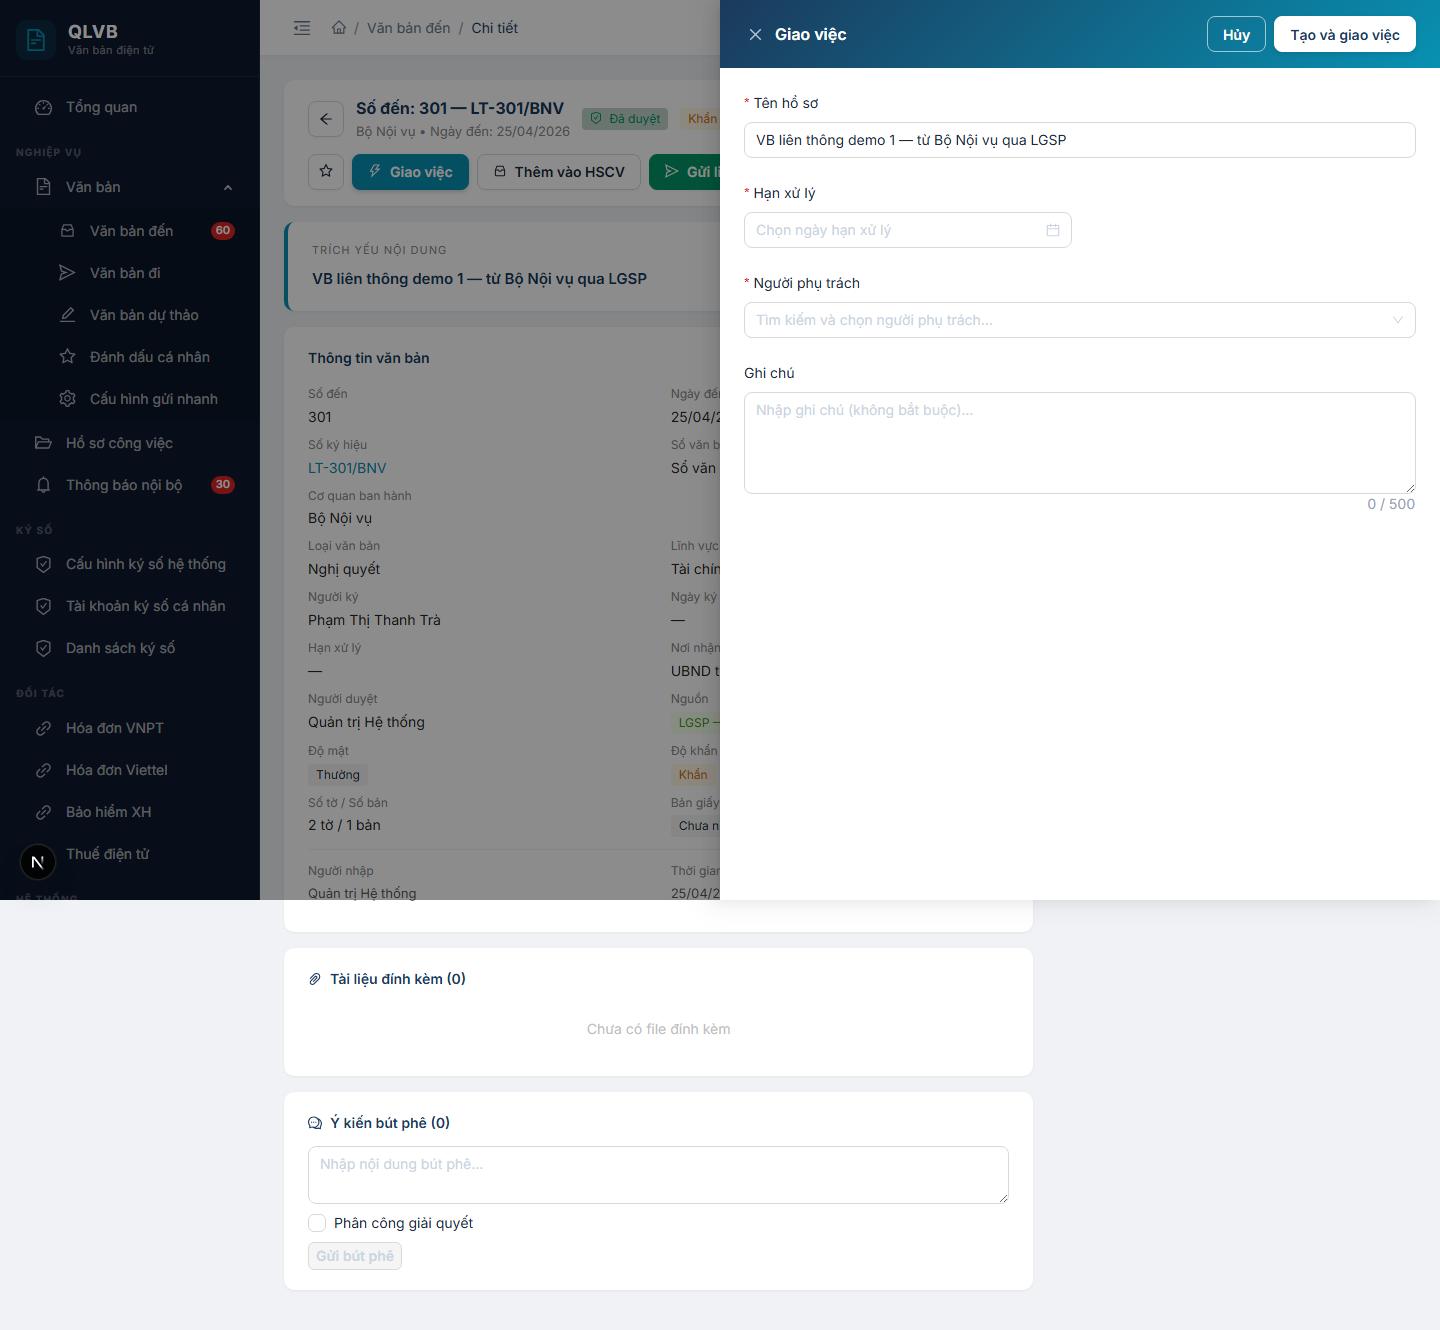
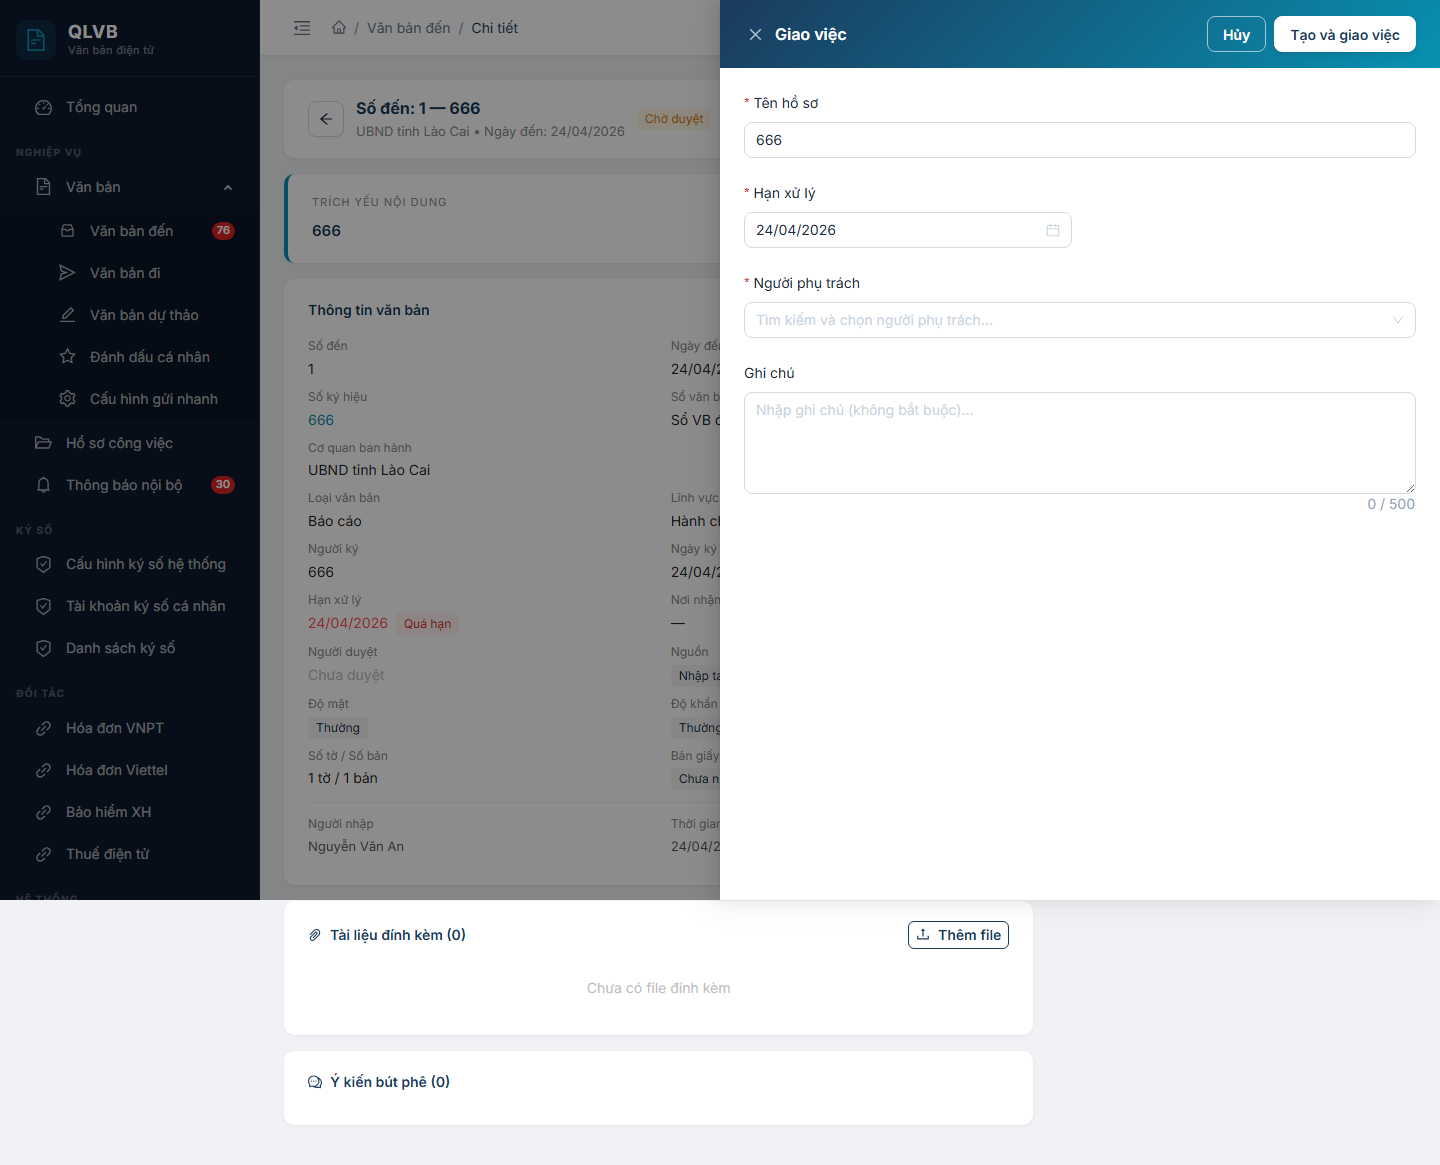
feat(32-06): recapture 6 HDSD screenshots flagged by 32-AUDIT-REPORT.md
Used capture-phase32.js (Playwright headless, viewport 1440x900,
admin/Admin@123). All 6 targets captured successfully in a single run:

- dashboard_01_main.png                 (256 KB, 1440x1446 fullPage)
  Phase 31 fix-gom stat cards + charts + Thao tác nhanh
- van_ban_den_04_detail.png             (138 KB, 1440x1165)
  Phase 31 grouped action buttons on VB đến detail
- van_ban_den_06_drawer_giao_viec.png   (156 KB, 1440x1165)
  Drawer 'Giao việc' opened on VB đến (GAP 1 caption)
- van_ban_di_05_detail.png              (170 KB, 1440x1171)
  Phase 31 grouped action buttons on VB đi detail
- van_ban_di_07_modal_send_internal.png (164 KB, 1440x900)
  Modal 'Ban hành & Gửi — chọn đơn vị nhận' (GAP 3 caption)
- van_ban_di_08_drawer_giao_viec.png    (164 KB, 1440x1171)
  Drawer 'Giao việc' opened on VB đi (GAP 2 caption)

Script fix during run: case 5 modal detection initially failed because
AntD's :visible pseudo-selector is flaky with portal-rendered modals
+ fade-in animation. Switched to page.waitForFunction() probing
.ant-modal-title textContent for 'chọn đơn vị nhận' (which matches
exact modal title from page.tsx line 916). Second run captured all 6.

diff --git a/tools/screenshots/capture-phase32.js b/tools/screenshots/capture-phase32.js
@@ -160,23 +160,55 @@ async function runCase(label, fn, results) {
     }, results);
 
     // ── 5. VB đi modal "Ban hành & Gửi" ────────────────────────────
+    // The modal "Ban hành & Gửi — chọn đơn vị nhận" only opens when
+    // doc has NO recipients yet (page.tsx handleReleaseAndSend line 337).
+    // If recipients already set, the click triggers direct release+send.
+    // Strategy: pick releasableDoc, then check if it has recipients via
+    // /noi-nhan API; if it does, skip & fall back to any approved doc
+    // with empty recipients, OR seed via UI fallback.
     await runCase('5:van_ban_di_07_modal_send_internal.png', async () => {
-      if (!releasableDoc) {
+      // First pass: find any doc with approved=true, is_released=false, and zero recipients
+      let targetId = null;
+      for (const d of vbDiDocs.filter(x => x.approved === true && x.is_released === false)) {
+        const noiNhan = await apiFetch(page, `/api/van-ban-di/${d.id}/noi-nhan`);
+        const recipients = noiNhan?.data || [];
+        if (recipients.length === 0) {
+          targetId = d.id;
+          console.log(`  Picked id=${d.id} (recipients=0, approved=true, is_released=false)`);
+          break;
+        }
+      }
+      if (!targetId) {
+        // Fallback: pick the first approved-not-released doc regardless of recipients —
+        // the click may not open a modal but we will detect that and adapt.
+        targetId = releasableDoc?.id;
+        console.log(`  Fallback id=${targetId} (may have recipients)`);
+      }
+      if (!targetId) {
         throw new Error('Không có VB đi với approved=true && is_released=false trong DB');
       }
-      await gotoAndSettle(page, `/van-ban-di/${releasableDoc.id}`, 2500);
-      // The button is the exact text "Ban hành & Gửi" (page.tsx line 495)
+      await gotoAndSettle(page, `/van-ban-di/${targetId}`, 2500);
       const btn = page.locator('button:has-text("Ban hành & Gửi")').first();
       if (await btn.count() === 0) {
-        throw new Error('Không thấy nút "Ban hành & Gửi" (canRelease && canSend không thoả)');
+        throw new Error('Không thấy nút "Ban hành & Gửi"');
       }
       await btn.click({ timeout: 5000 });
-      await page.waitForTimeout(1800);
-      // Modal title contains "chọn đơn vị nhận"
-      const modal = page.locator('.ant-modal-content:has-text("chọn đơn vị nhận")').first();
-      if (await modal.count() === 0) {
-        throw new Error('Modal "chọn đơn vị nhận" không mở');
+      // Wait for the modal title to appear (AntD renders in portal — :visible
+      // pseudo-selector can be flaky; check .ant-modal-title text instead).
+      // Modal title = "Ban hành & Gửi — chọn đơn vị nhận" (page.tsx line 916).
+      try {
+        await page.waitForFunction(
+          () => {
+            const titles = Array.from(document.querySelectorAll('.ant-modal-title'));
+            return titles.some(el => el.textContent && el.textContent.includes('chọn đơn vị nhận'));
+          },
+          { timeout: 6000 },
+        );
+      } catch {
+        throw new Error('Modal "chọn đơn vị nhận" không mở sau 6s');
       }
+      // Extra wait for fade-in animation + dept options to render
+      await page.waitForTimeout(1200);
       const r = await snap(page, 'van_ban_di_07_modal_send_internal.png', { fullPage: false });
       await closeOverlays(page);
       return r;
